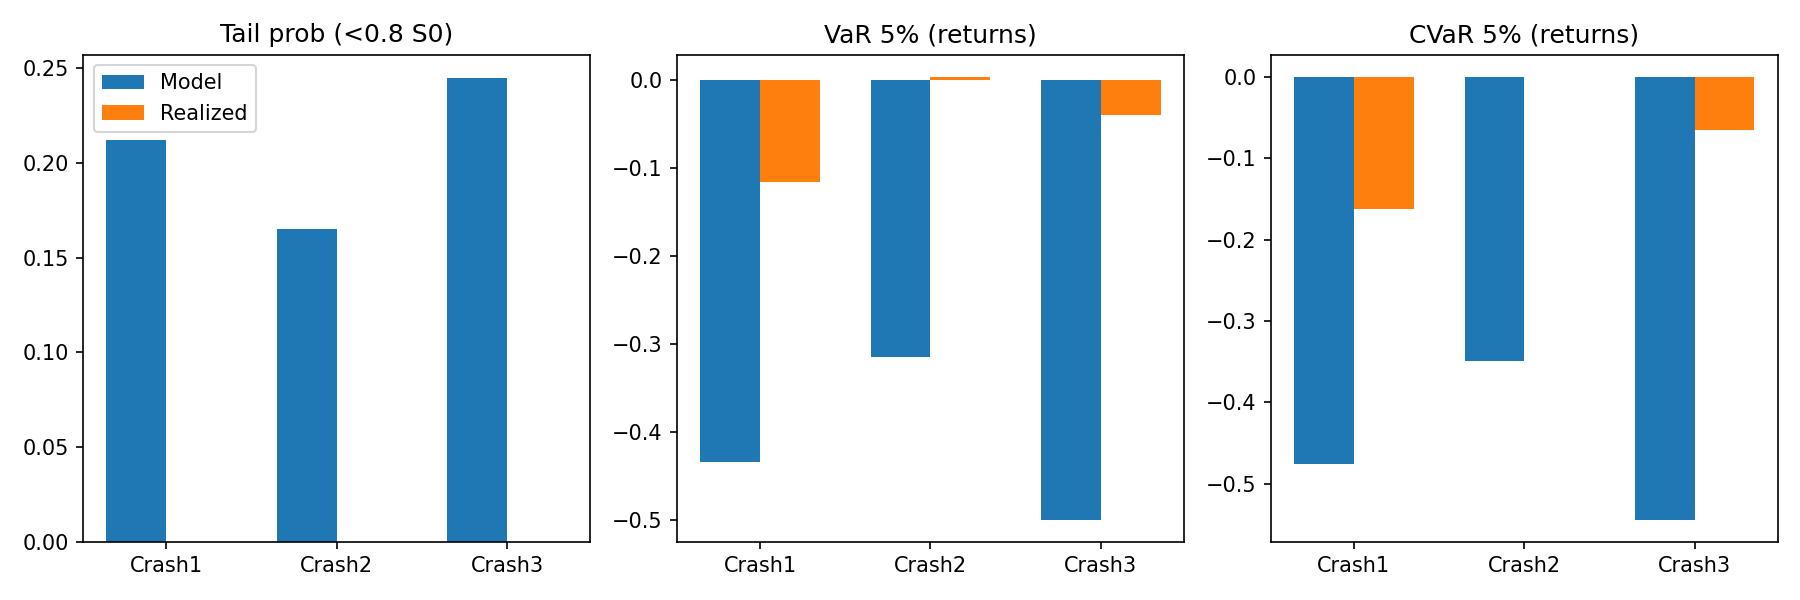
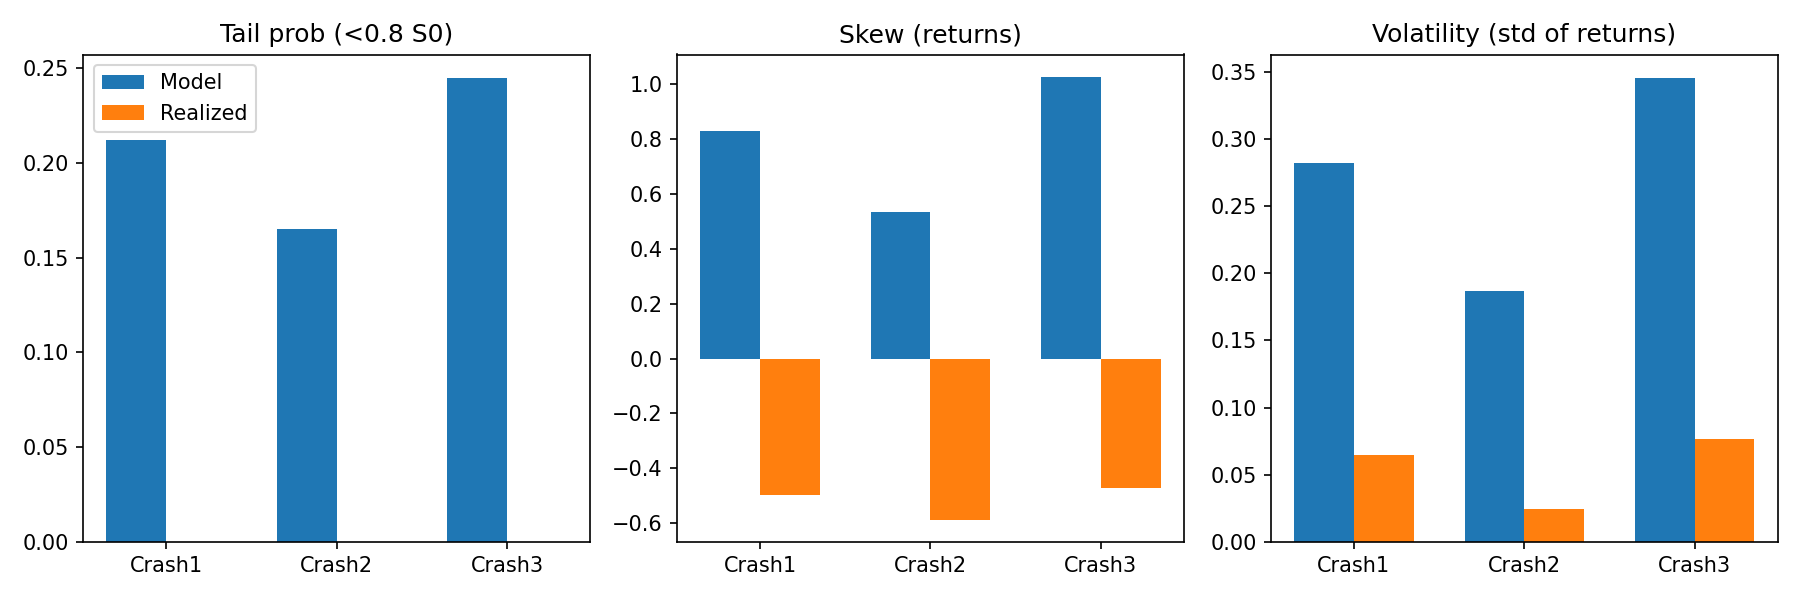
Adds graph of realized vs model metrics
Adds Crash title in lattice pngs

diff --git a/src/run_full_pipeline.py b/src/run_full_pipeline.py
@@ -114,7 +114,10 @@ def plot_person2_outputs(crash_vol_path: Path = CRASH_VOL_FILE, out_dir: Path = 
             S0, DEFAULT_R, T_years, DEFAULT_N_STEPS, sigma_of_m
         )
         plot_binomial_tree_lattice(
-            lattice, S0, out_path=str(out_dir / f"crash{crash_id}_lattice.png")
+            lattice,
+            S0,
+            out_path=str(out_dir / f"crash{crash_id}_lattice.png"),
+            title=f"Crash {crash_id} lattice",
         )
 
 
@@ -231,8 +234,6 @@ def compare_model_realized(
                 "std_ret": s["std"],
                 "skew_ret": s["skew"],
                 "kurt_ret": s.get("kurtosis"),
-                "var_ret": s.get("VaR_5pct"),
-                "cvar_ret": s.get("CVaR_5pct"),
             },
             "realized": real,
         }
@@ -242,10 +243,10 @@ def compare_model_realized(
                 "crash": s["crash_id"],
                 "model_tail": record["model"]["tail_prob"],
                 "real_tail": real["tail_prob"],
-                "model_var": record["model"]["var_ret"],
-                "real_var": real["var_ret"],
-                "model_cvar": record["model"]["cvar_ret"],
-                "real_cvar": real["cvar_ret"],
+                "model_skew": record["model"]["skew_ret"],
+                "real_skew": real["skew_ret"],
+                "model_vol": record["model"]["std_ret"],
+                "real_vol": real["std_ret"],
             }
         )
 
@@ -269,17 +270,17 @@ def compare_model_realized(
         axes[0].set_xticklabels(df_plot["crash"])
         axes[0].legend()
 
-        # VaR
-        axes[1].bar(x - width / 2, df_plot["model_var"], width, label="Model")
-        axes[1].bar(x + width / 2, df_plot["real_var"], width, label="Realized")
-        axes[1].set_title("VaR 5% (returns)")
+        # Skew
+        axes[1].bar(x - width / 2, df_plot["model_skew"], width, label="Model")
+        axes[1].bar(x + width / 2, df_plot["real_skew"], width, label="Realized")
+        axes[1].set_title("Skew (returns)")
         axes[1].set_xticks(x)
         axes[1].set_xticklabels(df_plot["crash"])
 
-        # CVaR
-        axes[2].bar(x - width / 2, df_plot["model_cvar"], width, label="Model")
-        axes[2].bar(x + width / 2, df_plot["real_cvar"], width, label="Realized")
-        axes[2].set_title("CVaR 5% (returns)")
+        # Volatility (std)
+        axes[2].bar(x - width / 2, df_plot["model_vol"], width, label="Model")
+        axes[2].bar(x + width / 2, df_plot["real_vol"], width, label="Realized")
+        axes[2].set_title("Volatility (std of returns)")
         axes[2].set_xticks(x)
         axes[2].set_xticklabels(df_plot["crash"])
 

diff --git a/src/tree_plots.py b/src/tree_plots.py
@@ -73,6 +73,7 @@ def plot_binomial_tree_lattice(
     lattice: Tuple[List[List[LatticeNode]], List[Tuple[LatticeNode, LatticeNode]]],
     S0: float,
     out_path: str,
+    title: str | None = None,
 ) -> None:
     """
     Plot lattice nodes and edges, using log-price on y to keep spacing reasonable.
@@ -100,7 +101,10 @@ def plot_binomial_tree_lattice(
     ax.axhline(np.log(S0), color="black", linestyle="--", linewidth=1, label="log S0")
     ax.set_xlabel("Step")
     ax.set_ylabel("log Price")
-    ax.set_title("Local-vol binomial lattice")
+    if title:
+        ax.set_title(title)
+    else:
+        ax.set_title("Local-vol binomial lattice")
     ax.legend()
     fig.tight_layout()
     fig.savefig(out_path, dpi=150)
